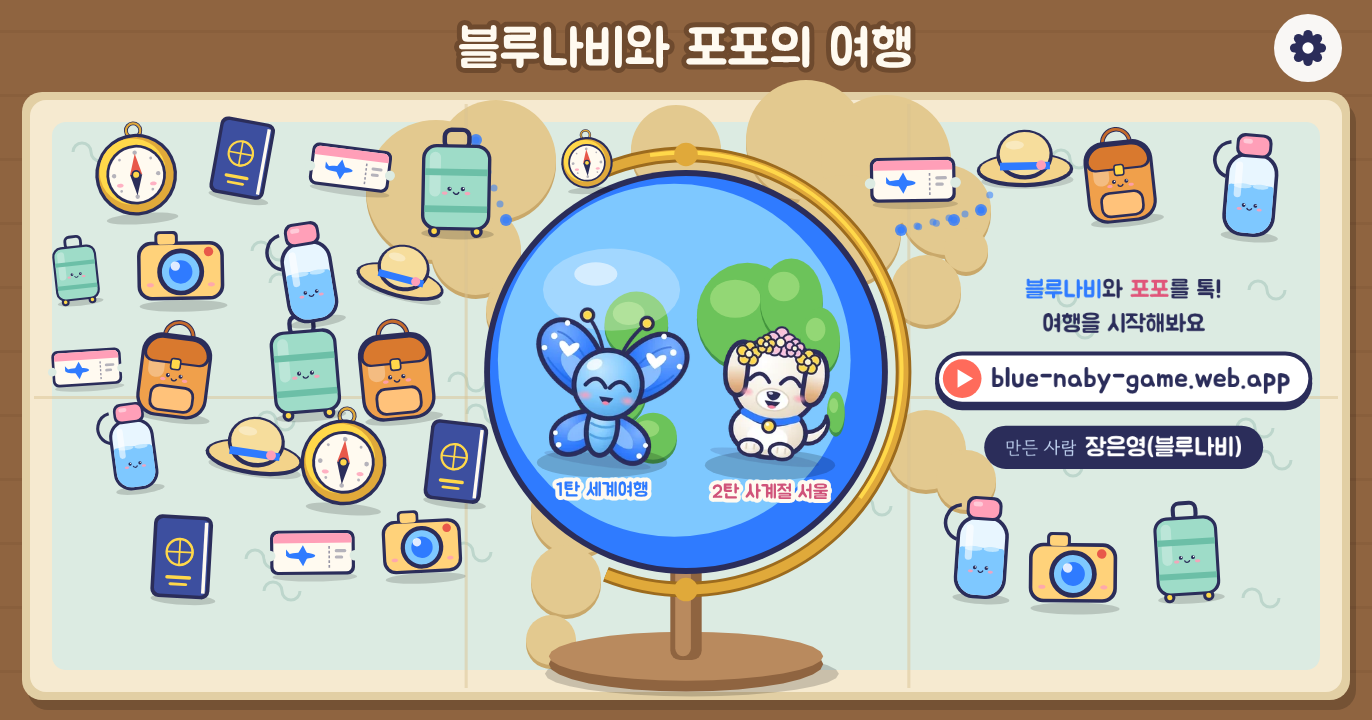
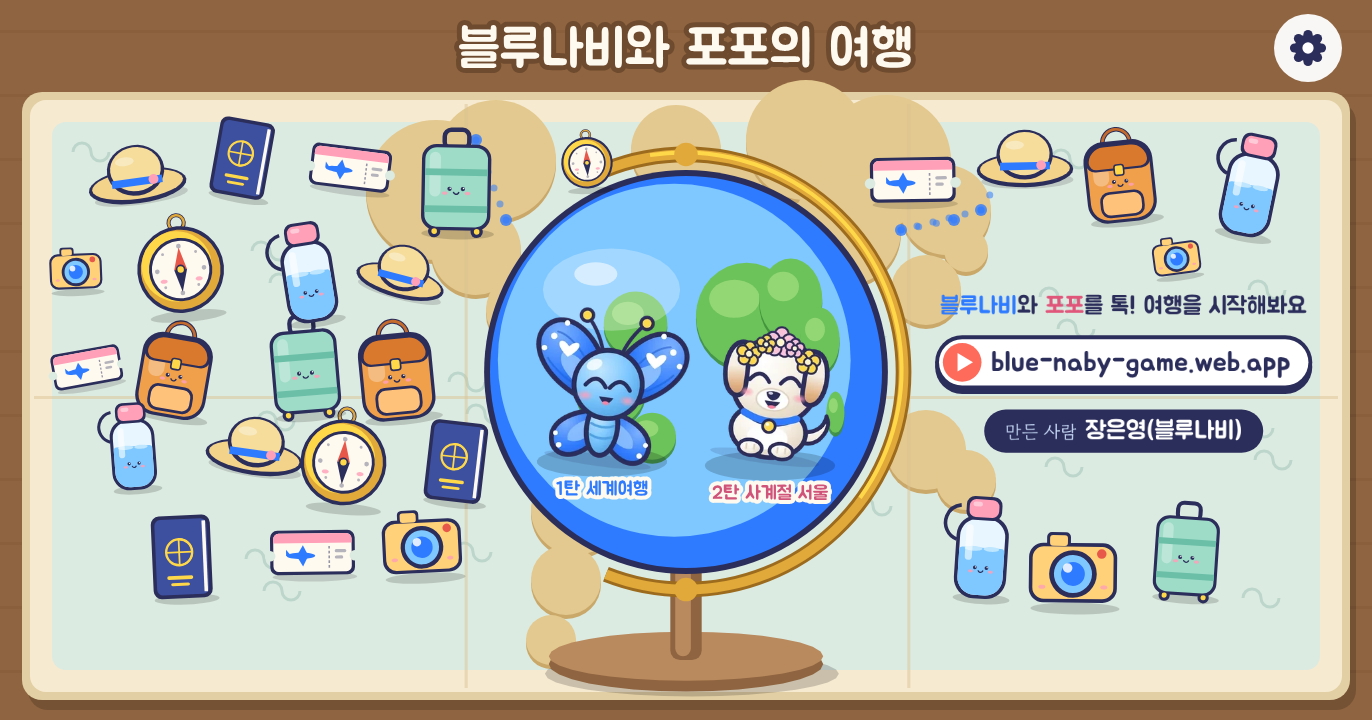
v3.13.2: 가로 첫 화면 문구 한 줄(세로 썸네일과 같게), 카카오 미리보기 og-image-v11
Claude-Session: https://claude.ai/code/session_01TkNv9721uSkR9vMBe25YwV

diff --git a/src/scenes/EntryScene.js b/src/scenes/EntryScene.js
@@ -244,13 +244,9 @@ export class EntryScene extends Phaser.Scene {
     };
     const BLUE = '#2f7bff', PINK = '#e0557a', INK = '#2b2d5a';
     let y = 0, kw;
-    if (land) {
-      kw = Math.max(line([['블루나비', BLUE], ['와 ', INK], ['포포', PINK], ['를 톡!', INK]], y), line([['여행을 시작해봐요', INK]], y + 44));
-      y += 44 + 72;
-    } else {
-      kw = line([['블루나비', BLUE], ['와 ', INK], ['포포', PINK], ['를 톡! 여행을 시작해봐요', INK]], y);
-      y += 74;
-    }
+    // 세로·가로 모두 한 줄 (세로 썸네일과 같게, 2026-11-11)
+    kw = line([['블루나비', BLUE], ['와 ', INK], ['포포', PINK], ['를 톡! 여행을 시작해봐요', INK]], y);
+    y += 74;
     // 주소 알약 (흰 바탕·남색 테·빨간 재생 동그라미)
     const url = word('blue-naby-game.web.app', INK, 37);
     const lw = 10 + 51 + 12 + url.width + 27, lh = 70;

diff --git a/index.html b/index.html
@@ -18,7 +18,7 @@
     <meta property="og:site_name" content="블루나비와 포포의 여행" />
     <meta property="og:title" content="블루나비와 포포의 여행" />
     <meta property="og:description" content="설치 없이 링크로 바로! 1탄 세계여행 · 2탄 사계절 서울, 귀여운 미로 모험" />
-    <meta property="og:image" content="https://blue-naby-game.web.app/og-image-v10.png" />
+    <meta property="og:image" content="https://blue-naby-game.web.app/og-image-v11.png" />
     <meta property="og:image:alt" content="블루나비와 포포의 여행 — 만든 사람 장은영(블루나비)" />
     <meta property="og:image:width" content="1200" />
     <meta property="og:image:height" content="630" />

diff --git a/src/data/version.js b/src/data/version.js
@@ -1,4 +1,4 @@
 // 게임 버전. 저장 데이터의 version과는 별개다.
-export const VERSION = '3.13.1';
+export const VERSION = '3.13.2';
 // true면 타이틀 구석에 "테스트 버전"을 보여 준다. 9단계(친구들에게 알리기, 1.0.0)부터 false.
 export const IS_TEST_BUILD = false;

diff --git a/CLAUDE.md b/CLAUDE.md
@@ -37,7 +37,7 @@
 | 4 미국 (ch6) | 센트럴파크 (15×19) | 나비 | 도토리 7 | 스케이트보드, 분수, 벤치 | 다람쥐 도토리대장 → 비눗방울 막대 |
 | 5 캐나다 (ch7) | 단풍 숲·튤립 꽃밭 (15×19) | 나비 | 꽃꿀 8 | 단풍잎 회오리, 스프링클러, 통나무 | 비버 댐댐이(→ 꿀 도시락) · 꿀벌 붕붕대장 (2명) |
 | 엔딩 | 캐나다 튤립 꽃밭, 꽃님 위 블루나비 + 친구 8명 | | | | |
-- **게임 입구 (`Entry`, 2026-11-06~, 2026-11-10 바뀜)**: 펼친 세계지도 위 **큰 지구본**, 위 제목 「블루나비와 포포의 여행」. **지구본 가운데에 나란히 선 블루나비(1탄)·강아지 포포(2탄) 그림을 톡** → **홈**(19절, 씬 이름 `Title`: 로고 + 블루나비·포포 + [1탄 세계여행] [2탄 사계절 서울] [같이 하기], 누른 탄 버튼이 반짝). 핀·이름표 카드는 없음(그림 아래 작은 이름만). 빈 곳은 귀여운 여행 물품 8가지(배낭·물병·나침반·캐리어·카메라·밀짚모자·여권·비행기표, 파일 없이 Graphics)를 지도 종이의 빈 자리(지구본·캐릭터·제목 피함)에 격자+어긋남으로 자동 배치, 가까운 물품과 다른 종류·덜 쓴 종류부터 골고루 섞음 — 세로·가로·길쭉한 폰 모두 채워짐. 2026-11-11~ 썸네일과 같은 빽빽한 옵션(`makeItems({step:112, base:0.5, vary:0.1, gap:8, max:80, mix:1.9, shrink:true, edge:50})`, 지구본 가까운 자리부터). **첫 화면 = 썸네일 = 카카오 미리보기 한 장면**(2026-11-11~): 지도 아래(가로는 지구본 오른쪽)에 `makeBanner` — "블루나비와 포포를 톡! 여행을 시작해봐요"·주소 알약·만든 사람 알약(톡 하는 곳 아님), 그 자리는 물품이 비켜 감. 썸네일 `thumbnail-tall-4` = 이 화면 그대로(`art/thumbnail/entry_v396.png`), 카카오 `public/og-image-v10.png` = 같은 첫 화면의 **가로 화면**(`art/thumbnail/entry_land_og.png`, 852×447 가로 폰 캡처 = 1200×630 비율) + 오른쪽 아래 버전 알약(`og3.html`, `build-thumbnail.cjs`가 version.js를 읽어 `#v=`로 넘김 — 버전을 올리면 다시 만들고 파일 이름도 바꿔 카카오 캐시 피함). 첫 화면을 바꾸면 셋 다 다시 만든다. 대결장·도전장 링크로 들어오면 입구를 건너뛴다. 탄을 바꿔 들어가면 그림을 받는 동안 미로·퐁퐁 `update`는 쉰다.
+- **게임 입구 (`Entry`, 2026-11-06~, 2026-11-10 바뀜)**: 펼친 세계지도 위 **큰 지구본**, 위 제목 「블루나비와 포포의 여행」. **지구본 가운데에 나란히 선 블루나비(1탄)·강아지 포포(2탄) 그림을 톡** → **홈**(19절, 씬 이름 `Title`: 로고 + 블루나비·포포 + [1탄 세계여행] [2탄 사계절 서울] [같이 하기], 누른 탄 버튼이 반짝). 핀·이름표 카드는 없음(그림 아래 작은 이름만). 빈 곳은 귀여운 여행 물품 8가지(배낭·물병·나침반·캐리어·카메라·밀짚모자·여권·비행기표, 파일 없이 Graphics)를 지도 종이의 빈 자리(지구본·캐릭터·제목 피함)에 격자+어긋남으로 자동 배치, 가까운 물품과 다른 종류·덜 쓴 종류부터 골고루 섞음 — 세로·가로·길쭉한 폰 모두 채워짐. 2026-11-11~ 썸네일과 같은 빽빽한 옵션(`makeItems({step:112, base:0.5, vary:0.1, gap:8, max:80, mix:1.9, shrink:true, edge:50})`, 지구본 가까운 자리부터). **첫 화면 = 썸네일 = 카카오 미리보기 한 장면**(2026-11-11~): 지도 아래(가로는 지구본 오른쪽)에 `makeBanner` — "블루나비와 포포를 톡! 여행을 시작해봐요"·주소 알약·만든 사람 알약(톡 하는 곳 아님), 그 자리는 물품이 비켜 감. 썸네일 `thumbnail-tall-4` = 이 화면 그대로(`art/thumbnail/entry_v396.png`), 카카오 `public/og-image-v11.png` = 같은 첫 화면의 **가로 화면**(문구는 세로처럼 한 줄)(`art/thumbnail/entry_land_og.png`, 852×447 가로 폰 캡처 = 1200×630 비율) + 오른쪽 아래 버전 알약(`og3.html`, `build-thumbnail.cjs`가 version.js를 읽어 `#v=`로 넘김 — 버전을 올리면 다시 만들고 파일 이름도 바꿔 카카오 캐시 피함). 첫 화면을 바꾸면 셋 다 다시 만든다. 대결장·도전장 링크로 들어오면 입구를 건너뛴다. 탄을 바꿔 들어가면 그림을 받는 동안 미로·퐁퐁 `update`는 쉰다.
 - **같이 하기 (19절, `TogetherScene`)**: 1 몇 명(혼자·2명·3명) → 2 무엇을(미로 여행·기념품 퐁퐁, 혼자는 퐁퐁만) → 3 어디서(1탄 나라·2탄 계절, 열린 곳) → 4 어떻게(2명 = 한 폰·각자 폰, 3명 = 각자 폰만). 3명 각자 폰 = 대결장 링크 `D2-`(인원 칸, `match.js` `others` 목록·`ranking`·등수 카드), 옛 `D1-`도 읽음.
 - **숨바꼭질 친구 (17절)**: 친구가 미로 안 숨는 곳 3군데(`src/maze/hide.js`, 시드 고정)를 차례로 옮겨 다니고, 세 번 찾으면(하트 3칸) 출구 앞에서 기다린다. **출구 열림 = 수집품 다 + 친구 모두 찾기**. 출구에서 친구 대사 → "○○와 친구가 됐어!" + 선물 → 결과 창. 한국은 구역마다 1명(`hideZones`).
 - **달리기 에너지·톡 이동·아이템 줄 (15절)**: 에너지(움직이면 줄고 수집품·찾기·체크포인트로 참, 0이면 2배 느리게), 칸을 톡 = 길 찾아 가기(바람 칸은 내려앉는 칸까지 한 번에 계산), 블루나비를 톡 = 멈춤. 아이템 버튼(미로마다 1번): 피리·자전거·비눗방울·꿀 도시락 (반짝가루는 2026-11-06 뺌 — `sparkle` 키는 저장 코드 칸 순서 때문에 남겨 둠, 아무도 주지 않음). 해설(나레이션)·안내 줄은 없고(2026-11-10), **대사창(건너뛰기 버튼이 붙는 이야기·친구 대사)도 띄우지 않는다**(2026-11-10, `ui.js` `dialogues: false` — DialogueScene이 뜨자마자 끝남 처리, 대사 글은 `dialogue.js`에 남김). 남은 말은 숨바꼭질 찾기 말풍선(목소리로 읽음, `src/ui/narrator.js` `VOICE`)과 "○○와 친구가 됐어!" 띠뿐.
@@ -227,6 +227,7 @@
 | 2026-11-06 | 처음 화면을 **펼친 세계지도 안의 지구본 모형** 입구로, 1탄·2탄을 터치해서 들어가게 | 기획안 `docs/design-brief.md` 16절(새 Entry 씬, 지구본 위 1탄 나비 핀·2탄 발바닥 핀 + 이름표 카드, 톡 → 확대 → 타이틀, 타이틀엔 [◀ 지구본]) |
 | 2026-11-06 | 친구를 따로 대결로 사귀지 말고 **미로 안에서 놀고 마지막 출구에서 친구가 되게** | 답: 숨바꼭질 친구(세 번 찾기, 하트 3칸) / 1탄·2탄 모두. 턴제 대결 화면은 이야기에서 빠짐. 기획안 `docs/design-brief.md` 17절 |
 | 2026-11-10 | 지구본에서 들어가는 화면을 **「블루나비와 포포의 여행」에 어울리게**, 퐁퐁·여행 게임을 **2~3명이 같이** 하게 **합쳐** | 답: 타이틀 한 화면으로 합치기 / [같이 하기] 한 버튼(인원·놀이를 안에서, 혼자 퐁퐁도) / 3명 = 각자 폰 대결 링크. 기획안 `docs/design-brief.md` 19절, 시안 `docs/presentation/brief19-mock.png` |
+| 2026-11-11 | 카카오 미리보기의 **"블루나비와 포포를 톡! 여행을 시작해봐요" 글자를 세로 썸네일과 똑같이** | v3.13.2: 가로 첫 화면 문구도 세로처럼 한 줄(블루나비 파랑·포포 분홍) → `og-image-v11.png`(+ v3.13.2) |
 | 2026-11-11 | **발표 스크립트 PDF도 수정** (v3.13.1 내용대로) | `script-50s`(PDF·html·md): 5구간 "숨은 친구를 세 번 찾으면 친구가 되고, 막히면 애벌레 버튼으로 전 단계로 돌아가요. 나라 풍경 속 퐁퐁에선 나무망치로 콩! 「같이 하기」로 두세 명이 겨뤄요.", 3구간 줄임("…다섯 나라를 여행하며 나비로 자라요"), 시간 0:17–0:26·0:26–0:34·0:34–0:50, 한글 약 210자·A4 1쪽 |
 | 2026-11-11 | 정식 주소에 **올려** (3.13.0~3.13.1) | v3.13.1 정식 주소 배포 완료 (나가기 버튼·전 단계로 되돌아가기·1단계 쉽게·카카오 미리보기 og-image-v10 가로 화면+버전) |
 | 2026-11-11 | **1단계로 되돌아가기는 빼** | v3.13.1: 나가기 창 = [나가기] [전 단계로 되돌아가기](이제 2단계부터) [계속하기], 1단계는 [나가기] [계속하기]만. 둘이서·각자 폰은 [처음부터 다시] 그대로 |

diff --git a/PROGRESS.md b/PROGRESS.md
@@ -1,7 +1,7 @@
 # 블루나비의 세계여행 — 진행 기록
 
 ## 현재 상태
-- 버전: **v3.13.1** (1단계 쉽게·나가기 창에 전 단계로 되돌아가기·카카오 미리보기 v10 가로 화면·버전 표시) — v3.13.0 (미로·퐁퐁 나가기 버튼 애벌레·발바닥, 미리보기) · v3.12.0 (퐁퐁 판 반투명·양옆 채움·2탄 계절 자연) · v3.11.0 (퐁퐁 나라 자연 풍경, 미리보기) · v3.10.0 (기념품 퐁퐁 나무망치, 미리보기) · **정식 주소에는 v3.13.1 (2026-11-11)** (← v3.12.0 ← v3.9.7) ← v3.9.7 (첫 화면·썸네일·카카오 미리보기 한 장면) ← v3.9.5 (정식 주소, 2026-11-11) ← v3.9.6 (지구본 화면 물품을 썸네일처럼 빽빽하게, 미리보기) ← v3.9.5 (블루나비·포포 지구본 가운데·물품 골고루) ← v3.9.4 (지구본 화면 물품 8가지 자동 배치·캐릭터 안쪽, 미리보기) ← v3.9.3 (지구본 화면 여행 물품·캐릭터 크게, 미리보기) ← v3.9.2 (지구본 크게·블루나비·포포 톡 → 홈, 미리보기) ← v3.9.1 (지구본 아래 카드 없앰, 미리보기) ← v3.9.0 (지구본에서 블루나비·포포를 톡 → 바로 게임, 미리보기) ← v3.8.0 (홈 한 화면·같이 하기·3명 대결) ← v3.7.2 (대사창 모두 없앰) ← v3.7.1 (타이틀 로고·홈 화면 이름도 새 이름) ← v3.7.0 (게임 이름 「블루나비와 포포의 여행」) ← v3.6.4 (게임 안내 줄 모두 없앰) ← v3.6.3 (친구 대사 속 안내 없앰) ← v3.6.2 (해설 없애고 모든 대사 음성) ← v3.6.1 (짧은 인트로) ← v3.6.0 (미로 2.5배 빠르게·배경음 빠르게) ← v3.5.0 (2탄 서울 도시 풍경) ← v3.4.3 (터치로 모두: 퐁퐁 꾹 누르기) ← v3.4.2 (엔딩 꽉 차게) ← v3.4.1 (키보드 끔) ← v3.4.0 (모바일 전용: PC 옆 QR 없앰, PC 창도 폰 배치) ← v3.3.0 (세로·가로 자유롭게) ← v3.2.0 (여권 친구 증명사진·친구 도장) ← v3.1.0 (길쭉한 폰 꽉 차게·반짝가루 빼기) ← v3.0.0 (숨바꼭질 친구·달리기 에너지·톡 이동·친구 아이템·해설 음성·지구본 입구, 정식 주소는 사용자 확인 후) ← v2.2.0 1탄 미로 1.5배 ← 이전 v2.1.0 (1.4.0 나라마다 1단계 + 1.5.0 각자 폰 대결 + 2.0.0 2탄 「포포의 사계절 서울」 + 2.1.0 모바일 최적화·배경음)
+- 버전: **v3.13.2** (가로 첫 화면 문구 한 줄·카카오 미리보기 v11, 미리보기) — v3.13.1 (1단계 쉽게·나가기 창에 전 단계로 되돌아가기·카카오 미리보기 v10 가로 화면·버전 표시) — v3.13.0 (미로·퐁퐁 나가기 버튼 애벌레·발바닥, 미리보기) · v3.12.0 (퐁퐁 판 반투명·양옆 채움·2탄 계절 자연) · v3.11.0 (퐁퐁 나라 자연 풍경, 미리보기) · v3.10.0 (기념품 퐁퐁 나무망치, 미리보기) · **정식 주소에는 v3.13.1 (2026-11-11)** (← v3.12.0 ← v3.9.7) ← v3.9.7 (첫 화면·썸네일·카카오 미리보기 한 장면) ← v3.9.5 (정식 주소, 2026-11-11) ← v3.9.6 (지구본 화면 물품을 썸네일처럼 빽빽하게, 미리보기) ← v3.9.5 (블루나비·포포 지구본 가운데·물품 골고루) ← v3.9.4 (지구본 화면 물품 8가지 자동 배치·캐릭터 안쪽, 미리보기) ← v3.9.3 (지구본 화면 여행 물품·캐릭터 크게, 미리보기) ← v3.9.2 (지구본 크게·블루나비·포포 톡 → 홈, 미리보기) ← v3.9.1 (지구본 아래 카드 없앰, 미리보기) ← v3.9.0 (지구본에서 블루나비·포포를 톡 → 바로 게임, 미리보기) ← v3.8.0 (홈 한 화면·같이 하기·3명 대결) ← v3.7.2 (대사창 모두 없앰) ← v3.7.1 (타이틀 로고·홈 화면 이름도 새 이름) ← v3.7.0 (게임 이름 「블루나비와 포포의 여행」) ← v3.6.4 (게임 안내 줄 모두 없앰) ← v3.6.3 (친구 대사 속 안내 없앰) ← v3.6.2 (해설 없애고 모든 대사 음성) ← v3.6.1 (짧은 인트로) ← v3.6.0 (미로 2.5배 빠르게·배경음 빠르게) ← v3.5.0 (2탄 서울 도시 풍경) ← v3.4.3 (터치로 모두: 퐁퐁 꾹 누르기) ← v3.4.2 (엔딩 꽉 차게) ← v3.4.1 (키보드 끔) ← v3.4.0 (모바일 전용: PC 옆 QR 없앰, PC 창도 폰 배치) ← v3.3.0 (세로·가로 자유롭게) ← v3.2.0 (여권 친구 증명사진·친구 도장) ← v3.1.0 (길쭉한 폰 꽉 차게·반짝가루 빼기) ← v3.0.0 (숨바꼭질 친구·달리기 에너지·톡 이동·친구 아이템·해설 음성·지구본 입구, 정식 주소는 사용자 확인 후) ← v2.2.0 1탄 미로 1.5배 ← 이전 v2.1.0 (1.4.0 나라마다 1단계 + 1.5.0 각자 폰 대결 + 2.0.0 2탄 「포포의 사계절 서울」 + 2.1.0 모바일 최적화·배경음)
 - 완료: 1~8단계, **9단계 친구들에게 알리기(공개용 그림·개인정보 안내·만든 사람들·한 파일 버전·체크리스트)** (2026-10-31)
 - 컨셉 v2 승인: 한국·중국·일본·미국·캐나다 (`docs/concept-v2.md`) → 2026-11-04부터 **나라마다 1단계, 5단계**
 - 그림 트랙: A1 Claude 벡터, A2 블루나비 캐릭터 시트 v1 승인, A3 나머지 그림 완료(임시 그림 0개), A4 아이콘·공유 그림 완료

diff --git a/CHANGELOG.md b/CHANGELOG.md
@@ -2,6 +2,10 @@
 
 친구들에게 새 버전을 알릴 때 이 글에서 3줄 요약을 만든다.
 
+## 3.13.2 — 가로 첫 화면 문구 한 줄 (2026-11-11)
+- 가로 지구본 화면의 "블루나비와 포포를 톡! 여행을 시작해봐요"를 세로 썸네일처럼 한 줄로
+- 카카오 미리보기 og-image-v11 (같은 가로 화면 + v3.13.2)
+
 ## 3.13.1 — 1단계 쉽게 (2026-11-11)
 - 1탄 1단계 한국·2탄 1단계 봄: 방해물(청소기·수레·자전거·웅덩이·거미줄)이 절반 빠르기로
 - 1탄 한국 거미줄 3 → 1개, 2탄 봄 웅덩이 2 → 1개 (블루나비·포포 빠르기와 뒤 단계는 그대로)
